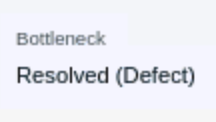
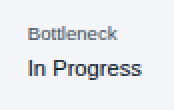
DemoSection2-2

Changed region(s): [[0.0575, 0.5182, 0.9195, 0.7364], [0.0575, 0.2182, 0.6897, 0.3818]]

diff --git a/docs/demonstration/index.md b/docs/demonstration/index.md
@@ -134,7 +134,7 @@ Congratulations on successfully completing this section of the demonstration.
 
 ### 1.3 DevOps Velocity and the Swimlane View
 
-DevOps Velocity's swimlane view display the same work items as shown on the value stream view but categorized by owner, by priority, by type, by release, and by sprint making this view a very powerful view in reviewing, managing, and updating team work during meetings. In this part of the demo, you will experience how the owner swimlane view can be used when communicating as a team. The Priority and Type swimlanes assist in determining if there is the right distribution of in flight work. And the Sprint/Release swimlanes allow the team to quickly see if work is progressing as planned or not.
+DevOps Velocity's swimlane view displays the same work items as shown on the value stream view but can be categorized by owner, by priority, by type, by release, and by sprint making this view a very powerful view in reviewing, managing, and updating team work. In this part of the demo, you will experience how the owner swimlane view can be used when communicating as a team. The Priority and Type swimlanes assist in determining if there is the right distribution of work across the team. And the Sprint/Release swimlanes allow the team to quickly see if work is progressing as planned or if some corrective action is required.
 
 | **Step** | <div style="width:250px">**Details**</div>  | **Additional Information** |
 |:-------------:|:------------- |:------------- |
@@ -145,25 +145,25 @@ DevOps Velocity's swimlane view display the same work items as shown on the valu
 | **Example Scenario** | Imagine you are the Team Lead for the JKE Banking product team and have assembled the team to review current assignments with the intent of getting status updates on the assigned work.<br/><br/> How could Velocity assist in conducting this meeting? |  |
 | 5 | Click on the "Owner" swimlane view and focussing on the "In Progress" stage see all the work items currently being worked on. | <img src="media/d1_37.png" alt="d1_37" style="width:100%; height:auto;"> |
 | 6 | Notice that Marco has two active work items violating the WIP best practice of one work item at a time and both work items are exceeding the average wait time for In Progress stage. | <img src="media/d1_38.png" alt="d1_38" style="width:100%; height:auto;"> |
-| **NOTE:** | At this point, there would be a conversation asking Marco about the two open work items runnning long. And through that discussion Marco shared that time was being wasted having to ask Bob for updates on the associated Task assigned to him. And he was also having to provide status updates to Al, owner of the story, for the task assigned to himself. |  |
+| **NOTE:** | At this point, there would be a conversation asking Marco about the two open work items runnning long. And through that discussion Marco shared that time was being wasted having to ask Bob for updates on the associated Task assigned to him. And he was also having to provide status updates to Bob, owner of the story, for the task assigned to himself. |  |
 | 7 | Click on the "Story" work item to open the work item card and click on the title "Customers can Nominate an Organization" to hyperlink to the work item in EWM. | <img src="media/d1_39.png" alt="d1_39" style="width:100%; height:auto;"><br/> <img src="media/d1_40.png" alt="d1_40" style="width:50%; height:auto;">|
 | **HINT:** | If prompted to authenticate with the ELM system, use the following: <br/>User ID: sysadmin<br/>Password: passw0rd (passw-zero-rd)<br/> |  |
 | 8 | Working in EWM, click on the work item's "Links" tab. | <img src="media/d1_41.png" alt="d1_41" style="width:50%; height:auto;"> |
 | 9 | Hover the mouse pointer over the "Implement - Customers can Nominate an Organization" child work item to display the Task overview information. | <img src="media/d1_42.png" alt="d1_42" style="width:100%; height:auto;"> |
 | 10 | Notice that "Bob" is the owner of the Task which is associated to the parent Story owned by "Marco". <br/> For the purpose of this demo scenario, let's assume that JKE Banking Engineering has a rule that the individual who owns the story should also own the tasks to implement the story. The different ownership of work items is clearly a violation of this rule. | <img src="media/d1_43.png" alt="d1_43" style="width:100%; height:auto;"> |
-| 11 | Returning to the work item Overview tab, change the owner of the Story to "Bob", save the change, and close the EWM browser tab. |  <img src="media/d1_44.png" alt="d1_44" style="width:100%; height:auto;"> |
-| 12 | Click on the "Task" owned by Marco in the "In Progress" stage and again open the work item card clicking the card title to open the work item in EWM. | <img src="media/d1_45.png" alt="d1_45" style="width:100%; height:auto;"> |
+| 11 | Returning to the work item "Overview" tab, change the owner of the Story to "Bob", save the change, and close the EWM browser tab. |  <img src="media/d1_44.png" alt="d1_44" style="width:100%; height:auto;"> |
+| 12 | Working in Velocity, click on the "Task" owned by Marco in the "In Progress" stage and again open the work item card clicking the card title to open the work item in EWM. | <img src="media/d1_45.png" alt="d1_45" style="width:100%; height:auto;"> |
 | 13 | Click on the Task work item's "Links" tab and hover over the parent work item to view the Story overview. | <img src="media/d1_46.png" alt="d1_46" style="width:100%; height:auto;"> |
-| 14 | Notice that the Story is owned by "Al" but the Task to implement the story is owned by "Marco". |   |
+| 14 | Notice that the Story is owned by "Bob" but the Task to implement the story is owned by "Marco". |   |
 | 15 | Click on the Parent work item link, change the owner to be "Marco", save the changes, and close the EWM browser tab. | <img src="media/d1_47.png" alt="d1_47" style="width:100%; height:auto;"> |
 | 16 | Notice how the work items being visualized in DevOps Velocity are reflecting the changes made in EWM. |   |
 | **NOTE:** | Through the integration between DevOps Velocity and ELM, Velocity will synchronize work item changes every 5 minutes. For the purposes of this demo and to avoid wasting time waiting for the EWM changes to be synchronized with Velocity, perform the following steps. |   |
-| | Click on the "Settings" icon (top RHS of DevOps Velocity browser window". | <img src="media/d1_48.png" alt="d1_48" style="width:50%; height:auto;"> |
+| | Click on the "Settings" icon (top RHS of DevOps Velocity browser window). | <img src="media/d1_48.png" alt="d1_48" style="width:50%; height:auto;"> |
 | | On the Settings page, select "Integrations" (the LH navigation bar). | <img src="media/d1_49.png" alt="d1_49" style="width:50%; height:auto;"> |
-| | Click the "Disable/Enable" control for the JKE Banking Demo (CCM) integration toggling from off to back on. <br/> This toggling action will force Velocity to re-sync with EWM and retrieve the changes. | <img src="media/d1_50.png" alt="d1_50" style="width:100%; height:auto;"> |
+| | Click the "Disable/Enable" control for the EWMDemo(JKEBanking) integration toggling from off to back on. <br/> This toggling action will force Velocity to re-sync with EWM and retrieve the changes. | <img src="media/d1_50.png" alt="d1_50" style="width:100%; height:auto;"> |
 | | Return to the "Owner" Swimlane view of the "JKE Banking Demo (Change Management)" value stream. |   |
 | 17 | Perform a plain text search using the phrase "organization must". | <img src="media/d1_51.png" alt="d1_51" style="width:50%; height:auto;"> |
-| 18 | Notice that after the changes in EWM, both the story and the task to implemented that story are owned by Marco. | <img src="media/d1_52.png" alt="d1_52" style="width:100%; height:auto;"> |
+| 18 | Notice that after the changes in EWM, both the story and the task to implement that story are owned by Marco. <br/> Clear the contents of the "Plain text search" textbox before advancing to the next section. | <img src="media/d1_52.png" alt="d1_52" style="width:100%; height:auto;"> |
 
 Very quickly and with the help of DevOps Velocity, the Team Lead was able to review work item distribution and take corrective action to make both Bob and Marco more efficient. As they now own the story and the children tasks to implement that story instead of working on tasks for others stories, this has reduced the time spent having to communicate on progress with others.
 
@@ -185,7 +185,7 @@ The activity performed against every work item, being visualized in DevOps Veloc
 | 1 | Working in the "JKE Banking Demo (Change Management)" value stream, perform a plain text search using the string value "71". | <img src="media/d2_1.png" alt="d2_1" style="width:100%; height:auto;"> |
 | 2 | Click on the one work item displayed in the "Done/Verified" stage of the Release phase. |   |
 | 3 | On the work item card displayed, scroll down to see a complete audit trail of activities performed against this work item. Including who performed the action and when the action was performed. | <img src="media/d2_2.png" alt="d2_2" style="width:50%; height:auto;"> |
-| 4 | Close the work item card by clicking anywhere on the value stream view UI. |   |
+| 4 | Close the work item card by clicking anywhere on the value stream view UI. <br/> Clear the contents of the "Plain text search" textbox before advancing to the next section. |   |
 
 Congratulations on successfully completing this section of the demonstration.
 
@@ -213,10 +213,10 @@ In this section, you will enable DevOps Velocity's Bottleneck Detection capabili
 | 5 | Provide a meaningful name (e.g. Bottleneck Detection) to identify the plugin and click Add.  | <img src="media/d2_5.png" alt="d2_5" style="width:50%; height:auto;"> |
 | 6 | Return to the "JKE Banking Demo (Change Management)" value stream. |   |
 | 7 | Click the "+" to add the Bottleneck Detection metric to the metrics bar. | <img src="media/d2_6.png" alt="d2_6" style="width:50%; height:auto;"> |
-| 8 | Select "Bottleneck" from the list of metrics presented. |   <img src="media/d2_7.png" alt="d2_7" style="width:50%; height:auto;"> |
-| 9 | Notice that the Bottleneck Detection algorithm has run and that DevOps Velocity has identified that "Resolved (Defect)" is the slowest point in the delivery pipeline. | <img src="media/d2_8.png" alt="d2_8" style="width:50%; height:auto;"> | 
-| 9 | Hover the mouse pointer of the Bottleneck metric to get more detail on the type of Bottleneck. | <img src="media/d2_9.png" alt="d2_9" style="width:100%; height:auto;"> |
-| 10 | DevOps Velocity has identified a dominant stage bottleneck because the 11 day wait time in Resolved (Defect) stage value exceeds the sum of all other stage wait time in stage values. |   | 
+| 8 | Select "Bottleneck" from the list of metrics presented. Click the X to close pop up window. |  <img src="media/d2_7.png" alt="d2_7" style="width:50%; height:auto;"> |
+| 9 | Notice that the Bottleneck Detection algorithm has run and that DevOps Velocity has identified that the "In Progress" stage is a constraint in the delivery pipeline. | <img src="media/d2_8.png" alt="d2_8" style="width:25%; height:auto;"> | 
+| 10 | Hover the mouse pointer of the Bottleneck metric to get more detail on the type of Bottleneck. | <img src="media/d2_9.png" alt="d2_9" style="width:100%; height:auto;"> |
+| 11 | DevOps Velocity has identified a flow imbalance bottleneck because work is backing up in the "In Progress" stage with several work items showing alerts which is delaying the pull of new work items from the New stage. |   | 
 
 Congratulations on successfully completing this section of the demonstration.
 
@@ -240,11 +240,11 @@ Where the value stream visualizes and displays data over the past 30 days, Insig
 
 Hopefully you have gained an appreciation for the many ways DevOps Velocity makes data available for viewing and the advanced features like Bottleneck Detection and Insights charts to help teams use data to make better choices on where to invest in process improvement.
 
-Feel free to explore the steps shared above in the "JKE Banking Demo (Requirements Management)" or "Meter Reader Demo GC" value streams if you have implemented ELM ßrequirements management and want to learn more about the DevOps Velocity / DOORs NG integration.
+Feel free to explore the steps shared above in the "JKE Banking Demo (Requirements Management)" or "Meter Reader Demo GC" value streams if you have implemented ELM requirements management and want to learn more about the DevOps Velocity / DOORS Next integration.
 
 [Return to Top of Demonstration Page](#integrating-devops-velocity-with-elm-to-achieve-business-outcomes)
 
 | Software Installed for Enablement Exercises | Software Version | Access |
 |:---- |:----:|:----:|
-| DevOps Velocity | v5.1.9 | https://ibm.devops.com |
+| DevOps Velocity | v5.2.0 | https://devops.velocity.com |
 | Engineering Lifecycle Management | v7.1 SR1 | https://ibmjazz.net:9443 |
